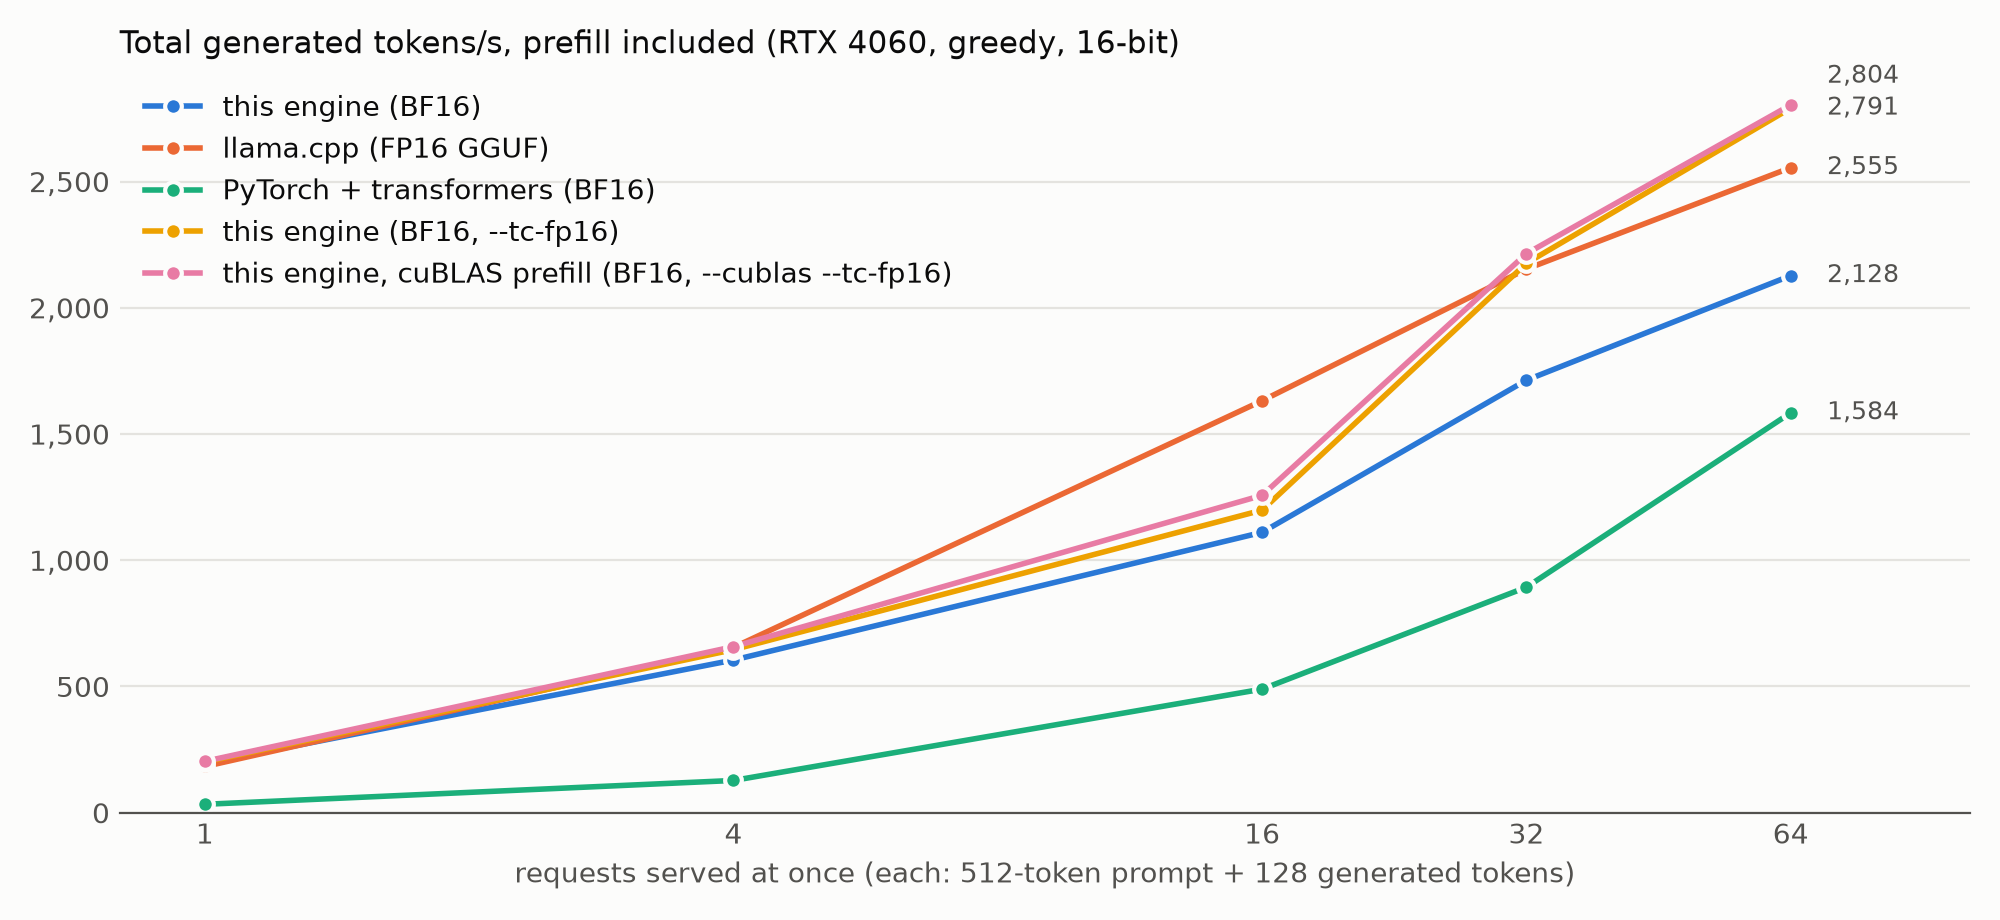
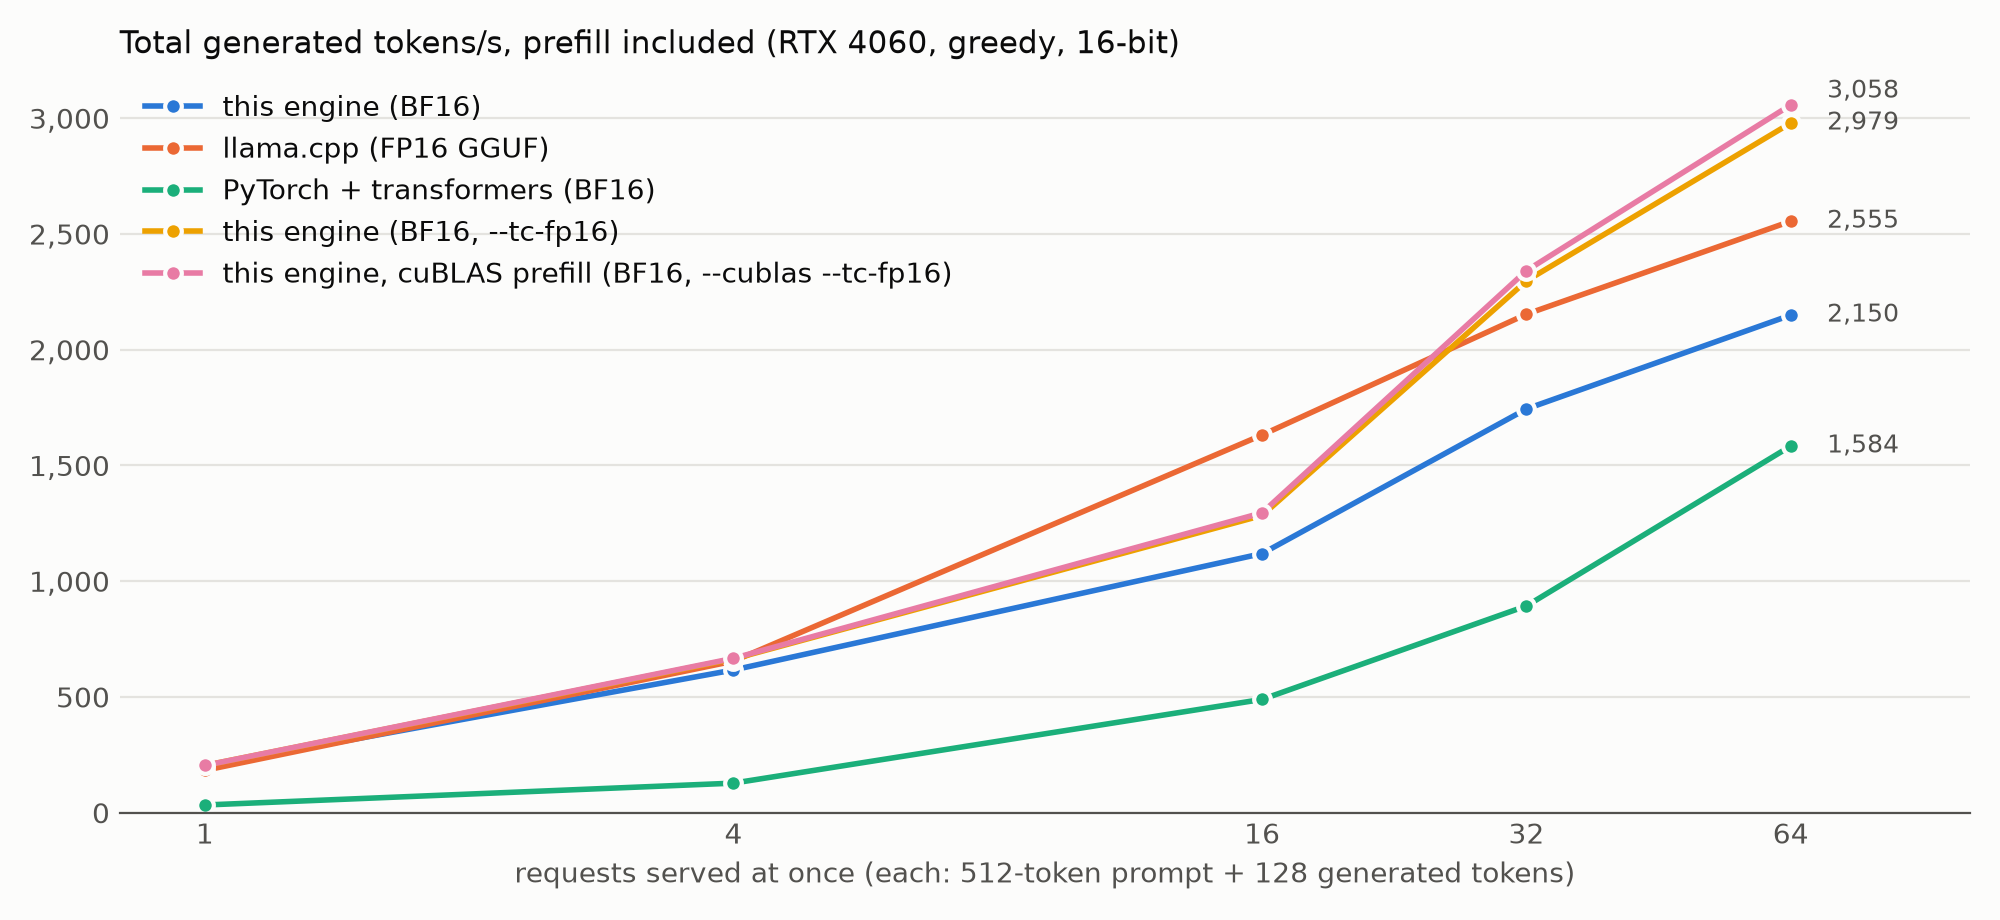
Tensor-core prefill attention: 4k-token prefill 13.2k -> 22.0k tok/s, serving 2979 tok/s

diff --git a/README.md b/README.md
@@ -5,17 +5,17 @@ It loads Hugging Face `safetensors` weights and generates text on an NVIDIA GPU.
 
 Target model: **Qwen2.5-0.5B-Instruct** (download needs no license approval). Development GPU: RTX 4060 (sm_89, 8 GB).
 
-> Status: **all five phases done; long-prompt prefill attention is the open item.** The whole
-> forward pass runs on an RTX 4060 with hand-written CUDA kernels and CUDA graphs: **213.8 tok/s decode
-> with BF16** (211 GB/s, 97% of the measured memory bandwidth) and **361.6 tok/s with INT8**, 127x the
-> first working version, while still matching Hugging Face at every layer. Prefill uses tensor cores and
-> FlashAttention-style tiled attention: **20,759 tok/s** on a 512-token prompt with `--tc-fp16` (within
-> 2.5% of the same matmuls done by NVIDIA's cuBLAS), 14,146 in the default exact mode. A paged KV cache
-> and continuous batching serve many requests at once: **2,791 tok/s across 64 concurrent requests**
-> (`--tc-fp16 --kv f16`), 13.9x serving them one at a time, with every request's output identical to
-> serving it alone; `ie serve` exposes it as an OpenAI-compatible HTTP server. On the same GPU, decode is
-> (BF16) within 3-6% of llama.cpp and 5.7x plain PyTorch, and serving 64 requests beats llama.cpp's 2,555 tok/s
-> ([comparison](#compared-with-llamacpp-and-pytorch)).
+> Status: **all five phases done.** The whole forward pass runs on an RTX 4060 with hand-written CUDA
+> kernels and CUDA graphs: **213.8 tok/s decode with BF16** (211 GB/s, 97% of the measured memory
+> bandwidth) and **361.6 tok/s with INT8**, 127x the first working version, while still matching
+> Hugging Face at every layer. Prefill runs on tensor cores, matmuls and FlashAttention-style attention
+> alike: **23,982 tok/s** on a 512-token prompt and **21,989** on 4,000 tokens with `--tc-fp16` (the
+> hand-written matmul is within ~3% of NVIDIA's cuBLAS), or 12,938 in the default exact mode. A paged KV
+> cache and continuous batching serve many requests at once: **2,979 tok/s across 64 concurrent
+> requests** (`--tc-fp16 --kv f16`), 14.6x serving them one at a time, with every request's output
+> identical to serving it alone; `ie serve` exposes it as an OpenAI-compatible HTTP server. On the same
+> GPU, against llama.cpp: prefill 86-96% of its speed, decode within 4%, and 17% more throughput serving
+> 64 requests; against plain PyTorch, 5.7x faster decode ([comparison](#compared-with-llamacpp-and-pytorch)).
 
 ## Layout
 
@@ -166,8 +166,8 @@ print(reply.choices[0].message.content)
 
 Options: `--host` (default `127.0.0.1`), `--port`, `--max-batch N` (requests decoded together, default
 32), `--ctx N` (prompt + reply per request), `--kv-gb G`, `--kv f16` (16-bit KV cache: twice the
-tokens per GB), `--tc-fp16` (faster prefill and batched matmuls; both are worth using for
-serving), `--weights`;
+tokens per GB), `--tc-fp16` (16-bit tensor cores for prefill and big batches: about twice the
+prefill speed; both are worth using for serving), `--weights`;
 the sampling options set the
 defaults for requests that leave them out. Besides the standard fields, requests accept `top_k` and
 `repetition_penalty`. `scripts\test_server.py` checks a plain and a streamed reply, a burst of
@@ -231,8 +231,10 @@ the model's default sampling (temperature 0.7, top-p 0.8, top-k 20): the first s
       memory per tile; perplexity 14.7775 → 14.7755, prefill +47% (14,146 → 20,759 tok/s on 512
       tokens), serving 64 requests +31% (2,128 → 2,791 tok/s)
 - [x] cuBLAS yardstick (`--cublas`): prefill matmuls by NVIDIA's cuBLAS instead of the hand-written
-      kernel, same precision; the hand-written kernel is within 2.5% of it
-- [ ] Tensor-core (WMMA) version of the prefill attention
+      kernel, same precision; the hand-written kernel is within ~3% of it
+- [x] Tensor-core prefill attention (with `--tc-fp16`): FlashAttention-2 style, Q·Kᵀ and P·V on tensor
+      cores in 64 x 64 tiles, online softmax in FP32: 4,000-token prefill 13,212 → 21,989 tok/s
+- [x] Tensor-core (WMMA) version of the prefill attention (see Phase 5)
 - [ ] INT4 weight-only quantization
 - [x] Paged KV cache: 16-token pages from a shared pool, one page table per sequence; memory follows
       actual lengths instead of max batch x max length
@@ -265,9 +267,9 @@ reruns everything and redraws the charts; raw numbers are in `docs/benchmarks.js
 
 | Engine | Prefill 512 tok/s | Decode @512 tok/s | Prefill 4,000 tok/s | Decode @4,000 tok/s |
 |---|--:|--:|--:|--:|
-| this engine (BF16, exact) | 14,146 | 199.5 | 10,189 | 187.4 |
-| this engine (BF16, `--tc-fp16`) | 20,759 | 197.1 | 13,212 | 185.2 |
-| this engine, cuBLAS prefill (`--cublas --tc-fp16`) | 21,267 | 202.8 | 12,973 | 190.0 |
+| this engine (BF16, exact) | 12,938 | 198.0 | 10,114 | 185.0 |
+| this engine (BF16, `--tc-fp16`) | **23,982** | 202.3 | **21,989** | 189.6 |
+| this engine, cuBLAS prefill (`--cublas --tc-fp16`) | 24,791 | 202.9 | 20,439 | 190.2 |
 | llama.cpp (FP16 GGUF) | 25,059 | 209.8 | 25,550 | 197.1 |
 | PyTorch + transformers (BF16) | 13,756 | 35.3 | 20,303 | 35.5 |
 
@@ -278,40 +280,39 @@ Each request: a 512-token prompt and 128 generated tokens, all arriving together
 
 | Engine | 1 at once | 4 at once | 16 at once | 32 at once | 64 at once |
 |---|--:|--:|--:|--:|--:|
-| this engine (BF16, exact) | 195 | 605 | 1,111 | 1,713 | 2,128 |
-| this engine (BF16, `--tc-fp16`) | 201 | 646 | 1,198 | **2,176** | **2,791** |
-| this engine, cuBLAS prefill (`--cublas --tc-fp16`) | 203 | 658 | 1,257 | 2,215 | 2,804 |
+| this engine (BF16, exact) | 200 | 617 | 1,120 | 1,744 | 2,150 |
+| this engine (BF16, `--tc-fp16`) | **204** | **664** | 1,284 | **2,298** | **2,979** |
+| this engine, cuBLAS prefill (`--cublas --tc-fp16`) | 204 | 667 | 1,296 | 2,342 | 3,058 |
 | llama.cpp (FP16 GGUF) | 183 | 655 | 1,632 | 2,154 | 2,555 |
 | PyTorch + transformers (BF16) | 33 | 128 | 489 | 893 | 1,584 |
 
 | 8-bit weights, one request | Prefill 512 tok/s | Decode @512 tok/s |
 |---|--:|--:|
-| this engine (INT8, per-row scales) | 10,907 | 309.3 |
+| this engine (INT8, per-row scales) | 12,257 | 331.9 |
 | llama.cpp (Q8_0) | 30,802 | 344.4 |
 
 What the numbers say:
 
-- **BF16 decode is within 3-6% of llama.cpp** (197-203 vs 210 tok/s across runs) and 5.7x plain
-  PyTorch; INT8 is 5-10% behind Q8_0 (309-328 vs 344 tok/s across runs). Decoding one sequence is limited by how fast the weights stream from memory, and both
+- **Decode is within 3-6% of llama.cpp** (BF16 198-203 vs 210 tok/s; INT8 332 vs 344) and 5.7x plain
+  PyTorch. Decoding one sequence is limited by how fast the weights stream from memory, and both
   engines are close to that limit; PyTorch loses to the per-token Python and kernel-launch overhead
   that CUDA graphs remove here.
-- **The hand-written tensor-core matmul is within 2.5% of cuBLAS.** With the same precision
-  (`--tc-fp16`), prefill is 20,759 tok/s with this engine's kernel and 21,267 with cuBLAS on 512
-  tokens, and level on 4,000. The default exact mode pays for its FP32-level accuracy with two passes
-  per tile: prefill 14,146 vs 20,759 tok/s, for a perplexity difference of 0.002 (14.7775 vs 14.7755).
-- **Prefill against llama.cpp: 83% on 512 tokens, 52% on 4,000** (with `--tc-fp16`). Since the
-  matmuls match cuBLAS, the rest is elsewhere: prefill attention runs on CUDA cores here and on tensor
-  cores in llama.cpp, which costs little on short prompts and dominates long ones; activations between
-  layers are also kept in FP32 here (llama.cpp uses 16 bits), so every kernel moves twice the bytes.
-- **Serving many requests: with `--tc-fp16`, ahead of llama.cpp at 1, 32 and 64 requests** (2,791 vs
-  2,555 tok/s at 64), level at 4, behind at 16 (1,198 vs 1,632). Batches of 32+ run on the tensor cores
-  with the lighter single-pass kernel; batches of 2-31 use the CUDA-core kernel, which keeps results
-  bit-identical to running alone but is slower, which is why 16 requests is the weak point. cuBLAS
-  prefill adds almost nothing here (2,804): the decode steps dominate this workload. Plain PyTorch is
-  behind at every size.
-
-The open item is therefore prefill attention on tensor cores (FlashAttention-2 style), then 16-bit
-activations between layers; the matmul kernel itself is not the bottleneck.
+- **Prefill with `--tc-fp16` reaches 96% of llama.cpp on 512 tokens and 86% on 4,000.** Both big parts
+  run on tensor cores: the matmuls (within ~3% of cuBLAS at the same precision: 23,982 vs 24,791 tok/s)
+  and attention, FlashAttention-2 style, which took 4,000-token prefill from 13,212 to 21,989 tok/s.
+  The rest of the gap is mostly that activations between layers stay in FP32 here (llama.cpp keeps 16
+  bits), so every other kernel moves twice the bytes.
+- **The exact mode is a deliberate accuracy choice.** It splits activations into two BF16 halves and
+  runs two tensor-core passes for FP32-level results, and keeps prefill attention in FP32 on CUDA cores:
+  about half the prefill speed, for a perplexity difference of 0.002 (14.7775 exact, 14.7754 with
+  `--tc-fp16`). `verify` checks it against Hugging Face layer by layer.
+- **Serving many requests: with `--tc-fp16`, ahead of llama.cpp at 1, 4, 32 and 64 requests** (2,979 vs
+  2,555 tok/s at 64, +17%), behind at 16 (1,284 vs 1,632). Batches of 32+ run on the tensor cores;
+  batches of 2-31 use the CUDA-core kernel, which keeps results bit-identical to running alone but is
+  slower, which is why 16 requests is the weak point. Plain PyTorch is behind at every size.
+- **The `--cublas` yardstick** swaps only the prefill matmuls for NVIDIA's. It is ~3% faster on short
+  prompts, so a further hand-written GEMM rewrite would buy little; the remaining work is elsewhere
+  (16-bit activations between layers, and tensor cores for batches of 2-31).
 
 ## Performance log
 
@@ -345,6 +346,9 @@ activations between layers; the matmul kernel itself is not the bottleneck.
 | 2026-11-12 | **GPU: `--tc-fp16`, 64 requests of 512 + 128 tokens (llama.cpp: 2,555)** | **2788.9** | - | +30% over the exact mode; perplexity 14.7755 |
 | 2026-11-12 | **GPU: `--tc-fp16`, 512-token prompt (llama.cpp: 25,059)** | 197.1 | **20759.0** | prefill +47% over the exact mode (14,146) |
 | 2026-11-12 | GPU: `--cublas --tc-fp16`, 512-token prompt | 202.8 | 21267.1 | the hand-written matmul is within 2.5% of cuBLAS |
+| 2026-11-12 | **GPU: tensor-core prefill attention (`--tc-fp16`), 4,000-token prompt (llama.cpp: 25,550)** | 189.6 | **21988.7** | +66% (13,212 before); perplexity 14.7754 |
+| 2026-11-12 | GPU: same, 512-token prompt (llama.cpp: 25,059) | 202.3 | **23982.3** | 96% of llama.cpp |
+| 2026-11-12 | **GPU: same, serving 64 requests of 512 + 128 tokens (llama.cpp: 2,555)** | **2979.4** | - | +17% over llama.cpp |
 
 Full sweep (`ie bench --sweep`, 64-token prompt, 32 generated tokens) on a Ryzen 5 3600XT
 (6 cores / 12 threads, AVX2, dual-channel DDR4) and an RTX 4060 (8 GB):
